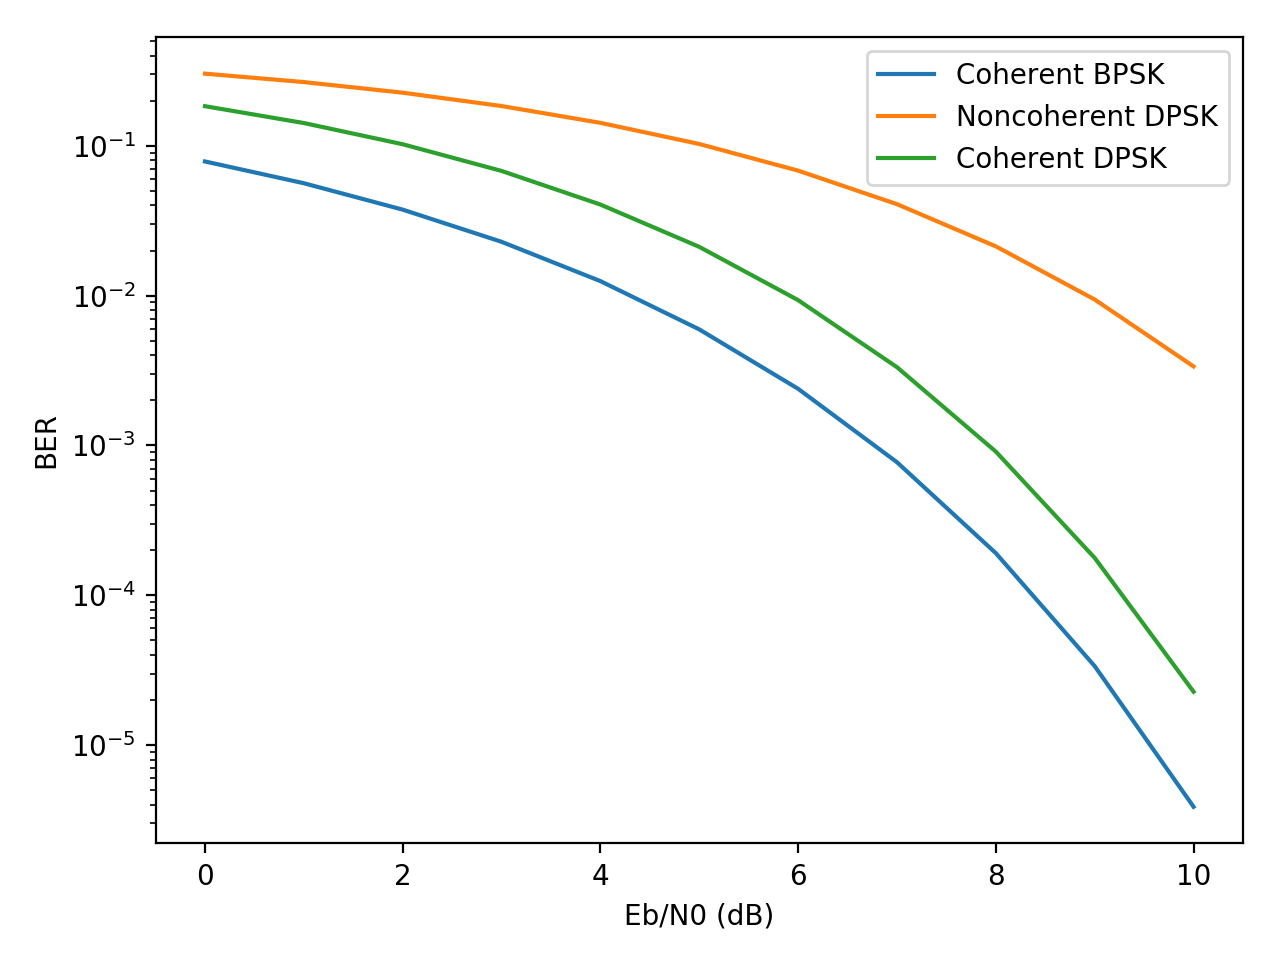
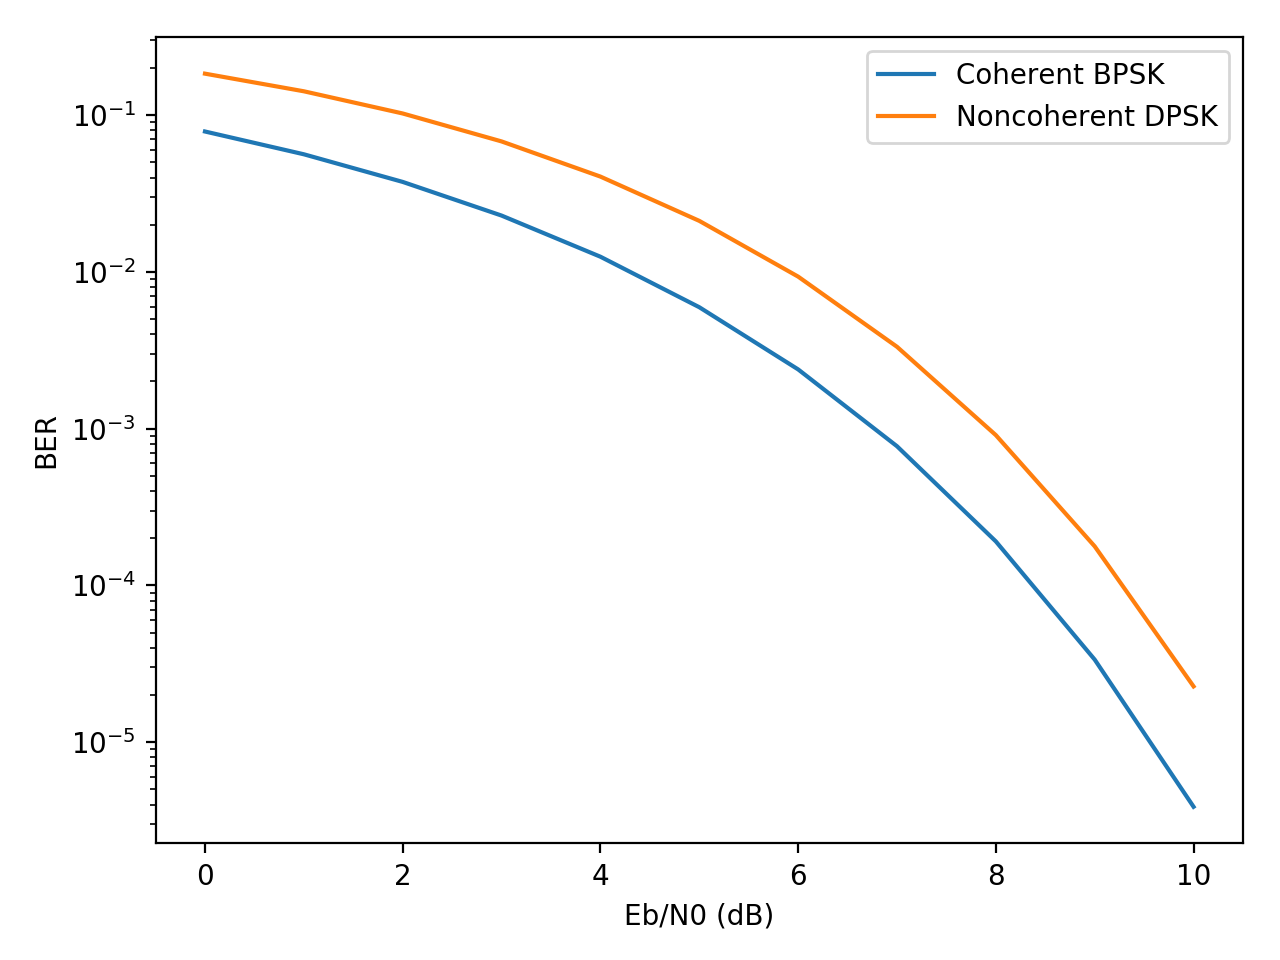
Second half of lab 4

diff --git a/_ece450/lab4/data/theory-figures.py b/_ece450/lab4/data/theory-figures.py
@@ -152,17 +152,12 @@ theory_c_psk = norm.sf(np.sqrt(2*theory_eb_n0_lin))
 print("Coherent BPSK: {}".format(np.log10(theory_c_psk)[::2]))
 
 # Differentially coherent DPSK theory
-theory_c_dpsk = 0.5 * np.exp(-theory_eb_n0_lin)
-print("Coherent DPSK: {}".format(np.log10(theory_c_dpsk)[::2]))
-
-# Noncoherent DPSK theory
-theory_nc_dpsk = 0.5 * np.exp(-0.5*theory_eb_n0_lin)
+theory_nc_dpsk = 0.5 * np.exp(-theory_eb_n0_lin)
 print("Noncoherent DPSK: {}".format(np.log10(theory_nc_dpsk)[::2]))
 
 fig, ax = plt.subplots()
 ax.plot(theory_eb_n0_db, theory_c_psk, label="Coherent BPSK")
 ax.plot(theory_eb_n0_db, theory_nc_dpsk, label='Noncoherent DPSK')
-ax.plot(theory_eb_n0_db, theory_c_dpsk, label='Coherent DPSK')
 
 ax.set_yscale('log')
 ax.set_xlabel('Eb/N0 (dB)')

diff --git a/_ece450/lab4/noncoherent-dpsk-demodulator.md b/_ece450/lab4/noncoherent-dpsk-demodulator.md
@@ -1,0 +1,104 @@
+---
+layout: labitem
+title: Part 4 - Noncoherent DPSK
+
+permalink: /ece450/lab4/noncoherent-dpsk
+course: ece450
+prev: /ece450/lab4/coherent-bpsk
+next: /ece450/lab4/calculating-ber
+---
+
+## Objectives
+
+You will implement a complex noncoherent baseband DPSK receiver.
+
+---
+
+## Part 4 deliverables
+
+For this section, the deliverables are:
+
+- the answers to one deliverable questions,
+- a dataset for later use in this lab.
+
+---
+
+## Building the flowgraph
+
+Construct the following GRC flowgraph. You can make a copy of the modulating flowgraph from the last section as a starting point by "Save As"-ing it.
+
+  ![dpsk-noncoherent-blank-flowgraph.png](figures/dpsk-noncoherent-blank-flowgraph.png)<br>
+  __*Noncoherent DPSK simulation flowgraph.*__
+
+### Modulator
+
+The modulator is largely unchanged excepting the addition of a *Differential Decoder*. The "Modulus" parameter is to indicate the size of the alphabet the stream is to be differentially encoded into. Set it to 2 so that the bitstream remains binary.
+
+### Variables
+
+Add two new variables with the names `taps1` and `taps2`. `taps1` should be set to
+
+```python
+np.ones((samp_rate//symbol_rate)) + 1j*np.ones((samp_rate//symbol_rate))
+```
+
+while `taps2` should be set to `-taps1`. Each of these is $$1T$$ of the modulated bitstream.
+
+### Decimating FIR Filter
+
+Each of these is a matched filter for a two symbol periods. The filter will also decimate from M-samples-per-symbol to 1-sample-per-symbol. The upper is taps for `[1, -1]` and so should be set to
+
+```python
+np.concatenate((taps1, taps2)).
+```
+
+The lower is taps for `[1, 1]` and so should be set to
+
+```python
+np.concatenate((taps1, taps1)).
+```
+
+Ensure the "Decimation" paramter is set appropriately to bring the signal down to 1-sample-per-symbol.
+
+### Complex To Mag^2
+
+These blocks take the envelope of the signal.
+
+### Binary Slicer
+
+This block outputs a 0 for every negative input and a 1 for every positive output.
+
+### Delay
+
+The *Decimating FIR Filter* causes a delay on the receiver signal chain. Use a 1 sample delay to align the signals.
+
+### Skip Head
+
+Because of the filter, even once delayed the BER will take time to stabilize. This can be avoided by skipping the first part of each waveform before measuring the BER. Set the argument to 2048.
+
+### Pack K Bits
+
+Set *K* to 8. This is the packet byte size that the later *BER* block requires.
+
+### BER
+
+This computes the error between the two inputs. It outputs to log of the BER, so if it outputs a value of -2, the BER is $$10^{-2}=0.01$$.
+
+Set *Test Mode* to False, which will mean the block immediately starts outputting results (as opposed to waiting for the error rate to stabilize first). While *Test Mode* is False, the other parameters don't do anything, so you can leave them as they are.
+
+### QT GUI Number Sink
+
+This will draw the output of the BER block on a number line. Set the maximum to 0 (since $$10^0=1$$ meaning that every bit is wrong) and the minumum to -7.
+
+## Run the experiment
+
+1. Run the flowgraph.
+2. Record the BER at $$\frac{E_b}{N_0}$$ values of `[0, 2, 4, 6, 8]`. You will need to kill the flowgraph each time you need to set a new value.
+   - Plotting GUI sink values also eats computational power. While waiting for the BER values to stabilize you may wish to disable any unneeded QT GUI blocks.
+3. Change $$\phi$$ as you go and see that it has no impact on the BER value.
+
+{% include alert.html title="Deliverable question 4" class="info" content="It should be clear that since the $$\phi$$ value does not change the BER that this is a noncoherent receiver. What are the advantages of implementing a physical system like this? In what scenario would a coherent receiver be necessary?"%}
+
+At this point you should have recorded 5 BER values.
+
+Review the [section deliverables](#part-4-deliverables) before moving on.

diff --git a/_ece450/lab4/theory.md b/_ece450/lab4/theory.md
@@ -55,21 +55,14 @@ _Sklar text section 4.4.1._ As each bit is encoded with a starting phase, correl
   ![theory-bpsk-taps.png](figures/theory-bpsk-taps.png)<br>
   __*Taps for coherent a coherent BPSK receiver matching earlier waveform. `0` on left and `1` on right.*__
 
-### 1.2.2 Coherent DPSK
+### 1.2.2 Noncoherent DPSK
 
 _ECE350 text section 7.6, Sklar text section 4.7.5._ As the DPSK transmitter encoded every phase shift with a single bit. Considering every possible phase shift is between two bits, a similar receiver to the coherent BPSK receiver can be built with 4 arms of $$2T$$ taps each. There will be one set of taps for each modulated bit sequence of `[0, 0]`, `[0, 1]`, `[1, 0]`, `[1, 1]`. Correlating the differentially encoded bitstream against these taps will deliver the decoded sequence.
 
 Since $$corr($$`[1, 1]` $$,$$`[0, 0]` $$) = - corr($$`[1, 1]`$$,$$`[1, 1]`$$)$$, and $$corr($$`[1, 0]` $$,$$`[0, 1]` $$) = - corr($$`[0, 1]`$$,$$`[1, 0]`$$)$$, by comparing the magnitude of the correlation results the 4 taps receiver can be simplified to a 2 taps receiver, the taps for which are shown below.
 
   ![theory-dpsk-taps.png](figures/theory-dpsk-taps.png)<br>
-  __*Taps for coherent a coherent DPSK receiver matching earlier waveform. `[1, 1]` on left and `[1, 0]` on right.*__
-
-### 1.2.3 Noncoherent DPSK
-
-_Sklar text section 4.5.2._ Noncoherent DPSK detection takes a different approach altogether. The block diagram below shows a receiver chain which does not consider the phase of the received waveform at all.
-
-  ![theory-noncoherent-dpsk-block-diagram.png](figures/theory-noncoherent-dpsk-block-diagram.png)<br>
-  __*Block diagram for a noncoherent DPSK receiver. Note that the receivre is symbol coherent but not phase coherent.*__
+  __*Taps for a noncoherent DPSK receiver matching earlier waveform. `[1, 1]` on left and `[1, 0]` on right.*__
 
 ## 1.3 Theoretical BER
 
@@ -81,34 +74,26 @@ $$
 P_B = Q\left( \frac{2E_b}{N_0} \right), \text{(Sklar eqn. 4.79.)}
 $$
 
-### 1.3.2 Coherent DPSK
+### 1.3.2 Noncoherent DPSK
 
-_Sklar text section 4.7.2._ Coherent DPSK is expected to perform worse than coherent BPSK as bit errors will often appear in pairs, increasing the required $$\frac{E_b}{N_0}$$ by approximately 1 dB.
+_Sklar text section 4.7.2._ Noncoherent DPSK is expected to perform worse than coherent BPSK as bit errors will often appear in pairs, increasing the required $$\frac{E_b}{N_0}$$ by approximately 1 dB.
 
 $$
 P_B = \frac{1}{2}e^{-\frac{E_b}{2N_0}}, \text{(Sklar eqn. 4.96.)}
 $$
 
-### 1.3.3 Noncoherent DPSK
-
-_Sklar text section 4.7.5._ As the two bits that make up each noncoherent DPSK are orthogonal, the same probability of a bit error exists as for noncoherent BFSK (see [Lab 3]({{ site.baseurl }}{ link lab3/theory.md })),
-
-$$
-P_B = \frac{1}{2}e^{-\frac{E_b}{N_0}}, \text{(Sklar eqn. 4.100.)}
-$$
-
 ## 1.4 Theory summary
 
-The three binary phase shift keying encoding and decoding schemes being investigated in this lab are
+The two binary phase shift keying encoding and decoding schemes being investigated in this lab are
 
 1. Coherent BPSK
-2. Coherent DPSK
-3. Noncoherent DPSK
+2. Noncoherent DPSK
+<!-- 3. Coherent DPSK -->
 
 The BER curves for these schemes is illustrated in the following figure.
 
   ![theory-BER-curves.png](figures/theory-BER-curves.png)<br>
-  __*Theoretical BER curves for coherent BPSK, coherent DPSK and noncoherent DPSK.*__
+  __*Theoretical BER curves for coherent BPSK and noncoherent DPSK.*__
 
 **It may help to review the code used to generate these figures. They can be found at:**
 

diff --git a/_ece450/lab4/calculating-ber.md b/_ece450/lab4/calculating-ber.md
@@ -1,0 +1,66 @@
+---
+layout: labitem
+title: Part 5 - Calculating BER
+
+permalink: /ece450/lab4/calculating-ber
+course: ece450
+prev: /ece450/lab4/noncoherent-dpsk
+next: /ece450/lab4/conclusion
+---
+
+## Objectives
+
+You will use the values recorded to plot a $$BER-\frac{E_b}{N_0}$$ curve for each of the noncoherent and coherent simulations and then compare them with theory.
+
+---
+
+## Part 5 deliverables
+
+For this section, the deliverables are:
+
+- the answer to two deliverable questions,
+- the code used to generate the BER curve (with the dataset hard coded into it),
+- the resulting BER curve as a .PNG image file.
+
+---
+
+## Generating a BER curve
+
+Using the values collected throughout this lab you can now generate some $$BER-\frac{E_b}{N_0}$$ curve.
+
+You can use a programming language of your choice, but python or matlab have some handy tools for this job built in.
+
+Plot four curves on the same axes:
+
+1. BER curve for the theoretical coherent BPSK,
+2. BER curve for the simulated coherent BPSK,
+3. BER curve for the theoretical noncoherent DPSK,
+4. BER curve for the simulated noncoherent DPSK.
+
+### Theory curves
+
+For generating the curves of the theoretical $$BER-\frac{E_b}{N_0}$$ review [the theory section]({{ site.baseurl }}{% link _ece450/lab4/theory.md %}) of this lab. For the Q-function, Matlab ships with [`qfunc()`](https://www.mathworks.com/help/comm/ref/qfunc.html) while python has [`norm.sf()`](https://docs.scipy.org/doc/scipy-0.19.1/reference/generated/scipy.stats.norm.html) included in the scipy package.
+
+### Simulation curves
+
+You collected datasets of BER values for Eb/N0 values of 0, 2, 4, 6, 8 dB. Plot them against each other (remembering that $$BER=10^{-X}$$).
+
+### Plotting details
+
+Now that you have the four curves, ensure that the plot has:
+
+- a log scale on the y-axis
+- a linear scale on the x-axis
+- appropriate axes titles
+- a legend (one entry for each of: "Coherent theory", "Coherent simulation", "Noncoherent theory", "Noncoherent simulation")
+
+A sample of what the plot might look like is included below (with all the labelling elements removed).
+
+  ![BER-curve.png](figures/BER-curve.png)<br>
+  __*Sample BER curve.*__
+
+{% include alert.html title="Deliverable question 5" class="info" content="Provide insight into your results. What does this say about coherent BPSK versus noncoherent DPSK?" %}
+
+{% include alert.html title="Deliverable question 6" class="info" content="If your results look like the BER curves above, say so. If your results do not look like the BER curve above, explain where your experiment went wrong and what you believe the cause of error to be." %}
+
+Review the [section deliverables](#part-5-deliverables) beforing moving on.

diff --git a/_ece450/lab4/coherent-bpsk-demodulator.md b/_ece450/lab4/coherent-bpsk-demodulator.md
@@ -5,7 +5,7 @@ title: Part 3 - Coherent BPSK
 permalink: /ece450/lab4/coherent-bpsk
 course: ece450
 prev: /ece450/lab4/psk-modulator
-next: /ece450/lab4/coherent-dpsk
+next: /ece450/lab4/noncoherent-dpsk
 ---
 
 ## Objectives
@@ -54,11 +54,15 @@ This is a coherent receiver which relies on correlating the waveform with taps f
 
 These blocks will do the correlations against provided taps as well as decimate from M-sample-per-symbol down to 1-sample-per symbol. Set the taps of the upper chain to
 
-`np.ones((samp_rate//symbol_rate))+ 1j*np.ones((samp_rate//symbol_rate))`
+```python
+np.ones((samp_rate//symbol_rate))+ 1j*np.ones((samp_rate//symbol_rate))
+```
 
 and the taps of the lower chain to
 
-`-np.ones((samp_rate//symbol_rate)) - 1j*np.ones((samp_rate//symbol_rate))`.
+```python
+-np.ones((samp_rate//symbol_rate)) - 1j*np.ones((samp_rate//symbol_rate)).
+```
 
 These taps will match an M-sample-per-symbol complex baseband "1" and "0" respectively. Set the decimation rate to `samp_rate//symbol_rate` to match the *Repeat* block from earlier.
 
@@ -76,13 +80,13 @@ This block outputs a 0 for every negative input and a 1 for every positive outpu
 
 The *Decimating FIR Filter* causes a delay on the receiver signal chain. Use a 1 sample delay to align the signals.
 
-### Pack K Bits
-
-Set *K* to 8. This is the packet byte size that the later *BER* block requires.
-
 ### Skip Head
 
 Because of the filter, even once delayed the BER will take time to stabilize. This can be avoided by skipping the first part of each waveform before measuring the BER. Set the argument to 2048.
+
+### Pack K Bits
+
+Set *K* to 8. This is the packet byte size that the later *BER* block requires.
 
 ### BER
 

diff --git a/_ece450/lab4/conclusion.md b/_ece450/lab4/conclusion.md
@@ -1,0 +1,23 @@
+---
+layout: labitem
+title: Lab 4 - Conclusion
+
+permalink: /ece450/lab4/conclusion
+course: ece450
+prev: /ece450/lab4/calculating-ber
+# next: /ece450/lab?
+---
+
+In this lab, you used GNU Radio to test several different binary phase shift keying methods. You recorded BER values for each and wrote a short script to turn them into a $$BER-\frac{E_b}{N_0}$$ curve.
+
+## Deliverables
+
+In this lab there are the following deliverables:
+
+- a single page of answers to the deliverable questions laid out in the lab. In this lab there are 6 of them. They are all highlighted and labelled with their respective question numbers. Each question (hopefully) required some thought and was answered concisely with 1 to 2 sentences of text and perhaps an accompanying figure.
+- a short code you wrote to generate a $$BER-\frac{E_b}{N_0}$$ curve
+- your final $$BER-\frac{E_b}{N_0}$$ curve figure
+
+Submit these three deliverables to your TA over coursespaces.
+
+{% include alert.html title="Congratulations!" content="You have completed the laboratory portion of ECE450."%}

diff --git a/_ece450/lab4/introduction.md b/_ece450/lab4/introduction.md
@@ -15,7 +15,7 @@ In this lab, you will use GNURadio to build a M-samples per symbol BPSK simulati
 You will learn about:
 
 - coherent BPSK
-- coherent DPSK
+<!-- - coherent DPSK -->
 - noncoherent DPSK
 
 <!-- ## Prelab
